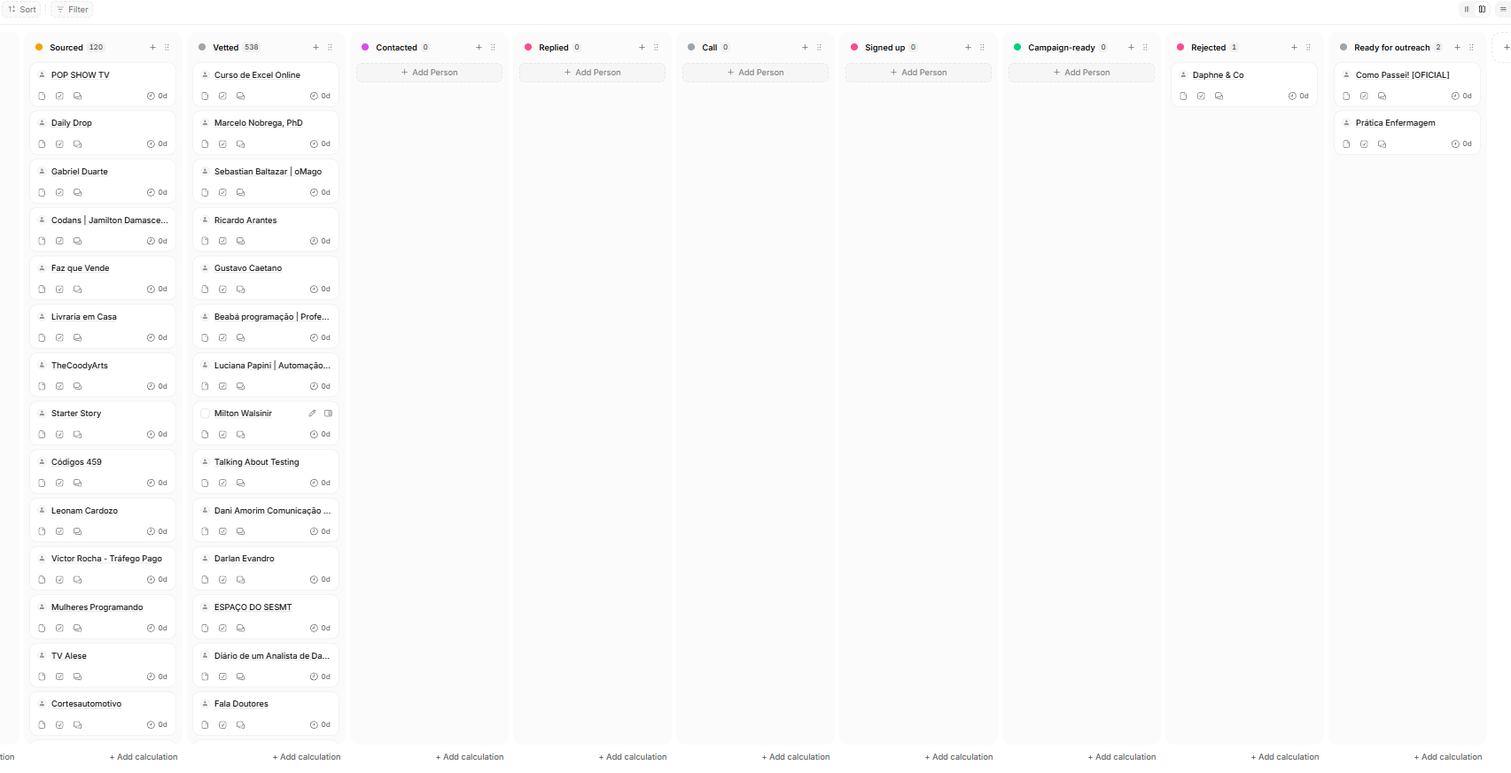
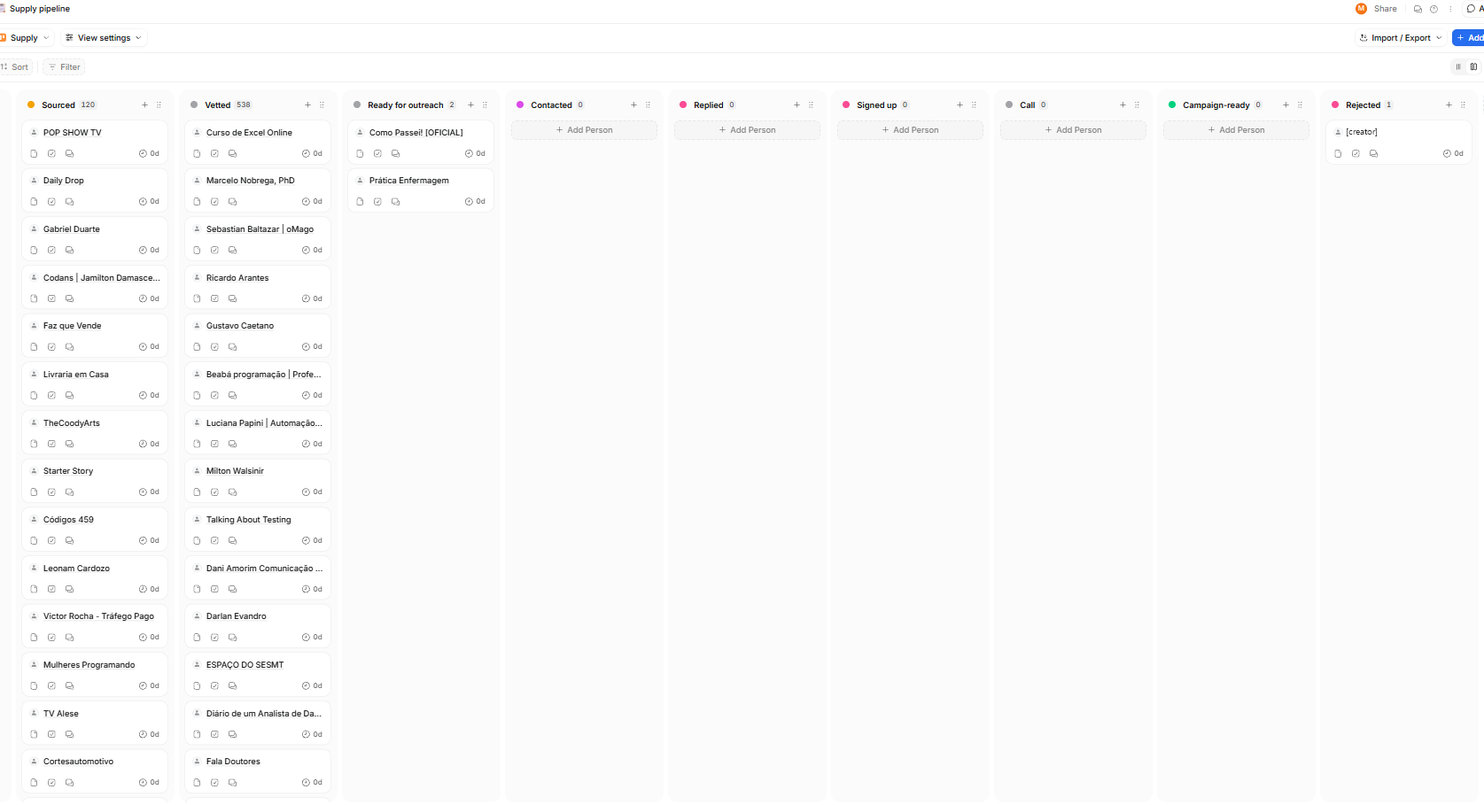
Creators case: outreach per platform, 15-minute onboarding call script
- Playbook: minute-by-minute onboarding call for the largest creators
  (signed up -> campaign-ready), three Apollo sequences, pipeline order
- In the tools: Apollo panel reads the three template sequences
- Workflow 2 picks the sequence from the creator's platform
- Attio board screenshot: new stage order, rejected creator name hidden

diff --git a/creators.html b/creators.html
@@ -543,7 +543,7 @@ footer{border-top:1px solid var(--line);padding-block:26px;display:flex;justify-
           <tr><td data-en="Build lists in Clay and Apollo, track every creator in Attio">Montar listas no Clay e Apollo e registrar tudo no Attio</td><td data-en="Automated YouTube and newsletter sourcing, LinkedIn through Clay, and 661 creators in an Attio pipeline">Sourcing automatizado no YouTube e nas newsletters, LinkedIn pela Clay e 661 creators num pipeline no Attio</td><td data-en="Done">Feito</td></tr>
           <tr><td data-en="Build automations with n8n and Claude">Automações com n8n e Claude</td><td data-en="Scripts that rerun every batch; an n8n flow from brief to shortlist, tested end to end">Scripts que rodam cada lote; fluxo n8n do brief à shortlist, testado de ponta a ponta</td><td data-en="Done">Feito</td></tr>
           <tr><td data-en="Report on supply and gaps">Reportar supply e gaps</td><td data-en="A gap map by category, live from Attio; the weekly workflow searches where it is thinnest">Um mapa de gaps por categoria, ao vivo do Attio; o workflow semanal busca onde está mais fino</td><td data-en="Done">Feito</td></tr>
-          <tr><td data-en="15-minute onboarding calls">Calls de onboarding de 15 minutos</td><td data-en="A call script and an outreach sequence, written but never sent">Roteiro de call e sequência de outreach, escritos mas nunca enviados</td><td data-en="Written">Escrito</td></tr>
+          <tr><td data-en="15-minute onboarding calls">Calls de onboarding de 15 minutos</td><td data-en="A minute-by-minute call script for the largest creators and three outreach sequences, written but never sent">Roteiro de call minuto a minuto para os maiores creators e três sequências de outreach, escritos mas nunca enviados</td><td data-en="Written">Escrito</td></tr>
         </tbody>
       </table>
     </div>
@@ -758,7 +758,7 @@ footer{border-top:1px solid var(--line);padding-block:26px;display:flex;justify-
     </div>
 
     <div class="panel" role="tabpanel" id="p-s2-out" aria-labelledby="t-s2-out" hidden>
-      <div class="panel-note"><span data-en="Workflow 2: when a creator reaches “Ready for outreach” in Attio, a webhook sends them to Apollo and the outreach sequence, then marks them Contacted. Built and imported, never activated: no mailbox is connected, so nothing can be sent.">Workflow 2: quando um creator chega em “Ready for outreach” no Attio, um webhook leva ele para o Apollo e para a sequência de outreach, e marca como Contacted. Montado e importado, nunca ativado: não há caixa de e-mail conectada, então nada pode ser enviado.</span></div>
+      <div class="panel-note"><span data-en="Workflow 2: when a creator reaches “Ready for outreach” in Attio, a webhook sends them to Apollo and the outreach sequence for their platform, then marks them Contacted. Built and imported, never activated: no mailbox is connected, so nothing can be sent.">Workflow 2: quando um creator chega em “Ready for outreach” no Attio, um webhook leva ele para o Apollo e para a sequência de outreach da plataforma dele, e marca como Contacted. Montado e importado, nunca ativado: não há caixa de e-mail conectada, então nada pode ser enviado.</span></div>
       <ol class="fc" aria-label="Stage B, workflow 2: Attio stage change, webhook, ready for outreach check, Apollo contact, sequence, contacted">
         <li class="fc-node"><b data-en="Stage changes">Estágio muda</b><small data-en="Supply pipeline list">lista Supply pipeline</small><span class="fc-tool">Attio</span></li>
         <li class="fc-edge"><span data-en="webhook event">evento de webhook</span></li>
@@ -766,7 +766,7 @@ footer{border-top:1px solid var(--line);padding-block:26px;display:flex;justify-
         <li class="fc-edge"><span data-en="yes">sim</span></li>
         <li class="fc-node"><b data-en="Create the contact">Cria o contato</b><small data-en="deduplicated; vetting fields come from Attio">sem duplicar; campos do vetting vêm do Attio</small><span class="fc-tool">Apollo</span></li>
         <li class="fc-edge"></li>
-        <li class="fc-node is-off"><b data-en="Enroll in the sequence">Entra na sequência</b><small data-en="inactive template, no mailbox: nothing is sent">modelo inativo, sem caixa de e-mail: nada é enviado</small><span class="fc-tool">Apollo</span></li>
+        <li class="fc-node is-off"><b data-en="Enroll in the sequence for their platform">Entra na sequência da plataforma dele</b><small data-en="YouTube, newsletter or LinkedIn template, inactive, no mailbox: nothing is sent">modelo do YouTube, de newsletter ou do LinkedIn, inativo, sem caixa de e-mail: nada é enviado</small><span class="fc-tool">Apollo</span></li>
         <li class="fc-edge"></li>
         <li class="fc-node"><b>Contacted</b><span class="fc-tool">Attio</span></li>
       </ol>
@@ -863,22 +863,22 @@ footer{border-top:1px solid var(--line);padding-block:26px;display:flex;justify-
     </div>
 
     <div class="panel" role="tabpanel" id="p-tl-apollo" aria-labelledby="t-tl-apollo" hidden>
-      <div class="panel-note"><span class="tag">Inactive</span><span class="tag">0 contacts</span><span class="tag">No mailbox</span><span data-en="“[TEMPLATE — do not send] Passionfroot · B2B creator recruiting”, read from the Apollo API. Written as if I worked at Passionfroot; never sent.">“[TEMPLATE — do not send] Passionfroot · B2B creator recruiting”, lido pela API do Apollo. Escrito como se eu trabalhasse na Passionfroot; nunca enviado.</span></div>
-      <ol class="fc" aria-label="Apollo sequence, 7 steps over 13 days">
-        <li class="fc-node"><b>Day 0 · View profile</b><small>View the profile and react to a recent post before connecting, so the creator sees who is reaching out.</small><span class="fc-tool">LinkedIn</span></li>
-        <li class="fc-edge"><span>+1 day</span></li><li class="fc-node"><b>Day 1 · Connection request</b><small>Hi {{first_name}}! I work on creator partnerships at Passionfroot and follow your posts about [niche]. Happy to connect?</small><span class="fc-tool">LinkedIn</span></li>
-        <li class="fc-edge"><span>+1 day</span></li><li class="fc-node"><b>Day 2 · Automatic email</b><small>Subject: {{first_name}}, B2B brands looking for [niche] creators</small><span class="fc-tool">Email</span></li>
-        <li class="fc-edge"><span>+3 days</span></li><li class="fc-node"><b>Day 5 · Automatic email</b><small>Hi {{first_name}}, following up with what usually matters most to creators at your stage: • Less back-and-forth by email: rates and formats live in yo…</small><span class="fc-tool">Email</span></li>
-        <li class="fc-edge"><span>+2 days</span></li><li class="fc-node"><b>Day 7 · Message</b><small>Hi {{first_name}}! I sent you an email about B2B brands looking for [niche] creators. Happy to sort it out here if that's easier.</small><span class="fc-tool">LinkedIn</span></li>
-        <li class="fc-edge"><span>+4 days</span></li><li class="fc-node"><b>Day 11 · Automatic email</b><small>Hi {{first_name}}, this is my last email so I don't crowd your inbox. If you ever want offers from B2B brands without the tedious part of negotiating,…</small><span class="fc-tool">Email</span></li>
-        <li class="fc-edge"><span>+2 days</span></li><li class="fc-node"><b>Day 13 · Call</b><small>Only with a public business phone or one the creator shared (LGPD, Brazil's data protection law); otherwise skip. Goal: book a 15-minute onboarding. If they accept: move to &quot;Call&quot; in Attio. No reply at any step: &quot;Rejected&quot; with reason &quot;no reply&quot;, re-approach in 90 days.</small><span class="fc-tool">Phone</span></li>
+      <div class="panel-note"><span class="tag">3 sequences</span><span class="tag">Inactive</span><span class="tag">0 contacts</span><span class="tag">No mailbox</span><span data-en="One template sequence per platform, read from the Apollo API; workflow 2 picks it from the creator’s platform in Attio. Written as if I worked at Passionfroot; never sent. Below: “[TEMPLATE — do not send] Passionfroot · YouTube creators”.">Uma sequência-modelo por plataforma, lida pela API do Apollo; o workflow 2 escolhe pela plataforma do creator no Attio. Escrito como se eu trabalhasse na Passionfroot; nunca enviado. Abaixo: “[TEMPLATE — do not send] Passionfroot · YouTube creators”.</span></div>
+      <ol class="fc" aria-label="Apollo sequence, 5 steps over 13 days">
+        <li class="fc-node"><b>Day 0 · Automatic email</b><small>Subject: [channel name] × B2B brands</small><span class="fc-tool">Email</span></li>
+        <li class="fc-edge"><span>+3 days</span></li><li class="fc-node"><b>Day 3 · Automatic email</b><small>Hi {{first_name}}, to make it concrete, I mocked up what your media kit could look like with your public numbers (attached): [formats, e.g. integratio…</small><span class="fc-tool">Email</span></li>
+        <li class="fc-edge"><span>+3 days</span></li><li class="fc-node"><b>Day 6 · DM (manual task)</b><small>Instagram DM, only if the creator lists a business Instagram on the channel. Text: &quot;Hi [first name]! Michel from Passionfroot. I emailed you about B2B brands for [channel]. Easier to talk here?&quot; One message, no follow-up DM.</small><span class="fc-tool">Instagram</span></li>
+        <li class="fc-edge"><span>+3 days</span></li><li class="fc-node"><b>Day 9 · Automatic email</b><small>Hi {{first_name}}, one example that may help: [creator from the Passionfroot gallery in the same category] and how they [result from their creator sto…</small><span class="fc-tool">Email</span></li>
+        <li class="fc-edge"><span>+4 days</span></li><li class="fc-node"><b>Day 13 · Automatic email</b><small>Hi {{first_name}}, last note from me. [Brand in your category] has an open campaign for creators like you until [date]; with a page set up, you can ap…</small><span class="fc-tool">Email</span></li>
       </ol>
-      <div class="tl-row"><b data-en="Custom contact fields, filled from Attio">Campos personalizados do contato, preenchidos pelo Attio</b><div class="tags"><span class="tag">Platform</span><span class="tag">Creator link</span><span class="tag">Passionfroot category</span><span class="tag">Estimated rate (US$)</span><span class="tag">Vetting score</span><span class="tag">Attio record ID</span></div></div>
+      <div class="tl-row"><b>Newsletter creators</b><div class="tags"><span class="tag">Day 0 · Email</span><span class="tag">Day 3 · Email</span><span class="tag">Day 6 · LinkedIn connect</span><span class="tag">Day 9 · Email</span><span class="tag">Day 13 · Email</span></div></div>
+      <div class="tl-row"><b>LinkedIn creators</b><div class="tags"><span class="tag">Day 0 · LinkedIn view</span><span class="tag">Day 1 · LinkedIn connect</span><span class="tag">Day 3 · LinkedIn message</span><span class="tag">Day 7 · LinkedIn message</span><span class="tag">Day 12 · LinkedIn message</span></div></div>
+      <div class="tl-row"><b data-en="Custom contact fields, filled from Attio">Campos personalizados do contato, preenchidos pelo Attio</b><div class="tags"><span class="tag">Creator link</span><span class="tag">Passionfroot category</span><span class="tag">Estimated rate (US$)</span><span class="tag">Platform</span><span class="tag">Attio record ID</span><span class="tag">Vetting score</span></div></div>
     </div>
 
     <div class="panel" role="tabpanel" id="p-tl-attio" aria-labelledby="t-tl-attio" hidden>
       <div class="panel-note"><span data-en="The Supply pipeline list in Attio, 661 creators: Sourced 120, Vetted 538, Ready for outreach 2, Rejected 1.">A lista Supply pipeline no Attio, 661 creators: Sourced 120, Vetted 538, Ready for outreach 2, Rejected 1.</span></div>
-      <figure class="tl-shot"><a href="creators-img/attio-pipeline.png" target="_blank" rel="noopener"><img src="creators-img/attio-pipeline.png" alt="Attio Supply pipeline board: Sourced 120, Vetted 538, Ready for outreach 2, Contacted 0, Replied 0, Call 0, Signed up 0, Campaign-ready 0, Rejected 1" loading="lazy"></a><figcaption data-en="Screenshot of the board in Attio (click to enlarge). The record, deal and task below come from the Attio API.">Print do quadro no Attio (clique para ampliar). O registro, o deal e a task abaixo vêm da API do Attio.</figcaption></figure>
+      <figure class="tl-shot"><a href="creators-img/attio-pipeline.png" target="_blank" rel="noopener"><img src="creators-img/attio-pipeline.png" alt="Attio Supply pipeline board: Sourced 120, Vetted 538, Ready for outreach 2, Contacted 0, Replied 0, Signed up 0, Call 0, Campaign-ready 0, Rejected 1" loading="lazy"></a><figcaption data-en="Screenshot of the board in Attio (click to enlarge). The record, deal and task below come from the Attio API.">Print do quadro no Attio (clique para ampliar). O registro, o deal e a task abaixo vêm da API do Attio.</figcaption></figure>
       <div class="tl-grid">
         <div class="card"><b data-en="A creator record">Um registro de creator</b><strong style="font-size:1.1rem">Arena Ambiental</strong><table class="tl-table"><tr><th>Platform</th><td>YouTube</td></tr><tr><th>Main link</th><td>https://www.youtube.com/@arenaambiental</td></tr><tr><th>Passionfroot category</th><td>Tech &amp; Business</td></tr><tr><th>Audience</th><td>74,900</td></tr><tr><th>Final score</th><td>82</td></tr><tr><th>Passionfroot fit</th><td>5</td></tr><tr><th>Verdict</th><td>Approved</td></tr><tr><th>Decided by</th><td>Jev + Claude agree</td></tr><tr><th>Rate card (US$)</th><td>500</td></tr><tr><th>Sourcing batch</th><td>w3_2026-10-23</td></tr><tr><th>Vetting rationale</th><td>Bruno Marchi runs a technical waste-management channel aimed at industry, agribusiness and business decision-makers. Recent videos are on-site interviews with companies like Grimaldi, Tecflex and Bianna Brasil at Eco Expo 2026, which show expert, sector-specif…</td></tr><tr><th>Content summary</th><td>Seja bem-vindo à Arena Ambiental! Seu canal técnico e direto sobre gestão ambiental. Aqui, com mais de 20 anos de experiência prática em gestão de resíduos no Brasil, África e Europa, eu, Bruno Marchi, trago discussões estratégicas para você sair do modo &quot;apag…</td></tr></table></div>
         <div class="tl-stack">
@@ -943,41 +943,60 @@ footer{border-top:1px solid var(--line);padding-block:26px;display:flex;justify-
     </div>
 
     <div class="panel" role="tabpanel" id="p-pb-call" aria-labelledby="t-pb-call" hidden>
-      <div class="panel-note"><span data-en="Fifteen minutes. The goal is a live profile at the end of the call, not a follow-up email.">Quinze minutos. O objetivo é sair da call com o perfil no ar, não com um e-mail de follow-up.</span></div>
+      <div class="panel-note"><span data-en="Fifteen minutes, as the role asks: sell Passionfroot and set clear expectations. Only for the largest creators, after they sign up: 100k+ YouTube subscribers, 10k+ newsletter subscribers or 30k+ LinkedIn followers, 95 of the 389 B2B creators in Attio today. The rest get the sign-up link and an async review of their page.">Quinze minutos, como a vaga pede: vender a Passionfroot e deixar as expectativas claras. Só para os maiores creators, depois do cadastro: 100 mil+ inscritos no YouTube, 10 mil+ assinantes de newsletter ou 30 mil+ seguidores no LinkedIn, 95 dos 389 creators B2B no Attio hoje. Os outros recebem o link de cadastro e uma revisão assíncrona da página.</span></div>
+      <ol class="fc" aria-label="Onboarding call, minute by minute: prepare, open, three questions, sell, set up the page, set expectations, close; campaign-ready or a follow-up task">
+        <li class="fc-node"><b data-en="Before · 5 minutes of prep">Antes · 5 minutos de preparo</b><small data-en="From Attio: why they were approved, category, score, estimated rate. Their latest two pieces, past sponsors, and the page they started when signing up.">Do Attio: por que foi aprovado, categoria, nota, preço estimado. Os dois últimos conteúdos, as publis anteriores e a página que ele começou no cadastro.</small><span class="fc-tool">Attio</span></li>
+        <li class="fc-edge"></li>
+        <li class="fc-node"><b data-en="0:00–1:00 · Open">0:00–1:00 · Abertura</b><small data-en="“The goal for these 15 minutes: your page ready for brands, and you know exactly what happens next. Can I ask three questions first?”">“O objetivo destes 15 minutos: sua página pronta para as marcas e você sabendo exatamente o que acontece depois. Posso fazer três perguntas antes?”</small><span class="fc-tool" data-en="Me">Eu</span></li>
+        <li class="fc-edge"></li>
+        <li class="fc-node"><b data-en="1:00–4:00 · Three questions">1:00–4:00 · Três perguntas</b><small data-en="Who watches you at work: roles, company size? Which sponsorships have you done, what did you charge, what went wrong? How many a month do you want, and what will you never promote?">Quem te assiste no trabalho: cargos, porte de empresa? Que publis você já fez, quanto cobrou, o que deu errado? Quantas quer por mês, e o que nunca divulgaria?</small><span class="fc-tool" data-en="Me">Eu</span></li>
+        <li class="fc-edge"></li>
+        <li class="fc-node"><b data-en="4:00–7:00 · Sell, using their answers">4:00–7:00 · Vender, com as respostas dele</b><small data-en="Two of three points, whichever matches their pain: B2B brands, foreign ones included, find and book you; brief, invoice and payment in one place; your price, set once. Then one Brazilian creator story from their category.">Dois de três argumentos, o que bater com a dor dele: marcas B2B, inclusive de fora, te acham e reservam; briefing, nota e pagamento num lugar só; seu preço, definido uma vez. Depois, uma história de creator brasileiro da categoria dele.</small><span class="fc-tool" data-en="Me">Eu</span></li>
+        <li class="fc-edge"></li>
+        <li class="fc-node"><b data-en="7:00–11:00 · Make the page campaign-ready, live">7:00–11:00 · Deixar a página pronta, ao vivo</b><small data-en="Up to three formats to start. A price per format, anchored on Passionfroot’s pricing guide and their views per subscriber. Slots per month and lead time. Categories they won’t take. Two links to past sponsored work.">Até três formatos para começar. Um preço por formato, com âncora no guia de preços da Passionfroot e nas views por inscrito. Vagas por mês e antecedência. Categorias que não aceita. Dois links de publis anteriores.</small><span class="fc-tool">Passionfroot</span></li>
+        <li class="fc-edge"></li>
+        <li class="fc-node"><b data-en="11:00–14:00 · Clear expectations">11:00–14:00 · Expectativas claras</b><small data-en="What it costs, what is not guaranteed, what I ask of them, what I do next (card below).">Quanto custa, o que não é garantido, o que eu peço a ele, o que eu faço depois (cartão abaixo).</small><span class="fc-tool" data-en="Me">Eu</span></li>
+        <li class="fc-edge"></li>
+        <li class="fc-node"><b data-en="14:00–15:00 · Close">14:00–15:00 · Fechamento</b><small data-en="Recap: page live, prices set, check-in date. Then one ask: “Who else in your niche should be on Passionfroot?”">Resumo: página no ar, preços definidos, data do check-in. Depois, um pedido: “Quem mais do seu nicho deveria estar na Passionfroot?”</small><span class="fc-tool" data-en="Me">Eu</span></li>
+        <li class="fc-edge"></li>
+        <li class="fc-node is-decision"><b data-en="Page live, a priced format, availability set?">Página no ar, um formato com preço, disponibilidade?</b><span class="fc-tool">Attio</span></li>
+        <li class="fc-split">
+          <div class="fc-out"><span class="fc-edge" data-en="yes">sim</span><div class="fc-node is-human"><b>Campaign-ready</b><small data-en="ready for the next brief in their category">pronto para o próximo brief da categoria</small><span class="fc-tool">Attio</span></div></div>
+          <div class="fc-out"><span class="fc-edge" data-en="no">não</span><div class="fc-node"><b data-en="Stays Signed up">Fica em Signed up</b><small data-en="task for me in 3 days with what is missing">task para mim em 3 dias com o que falta</small><span class="fc-tool">Attio</span></div></div>
+        </li>
+      </ol>
       <div class="cards">
-        <div class="card"><b data-en="Audience">Público</b><p data-en="Who reads or watches you: roles, seniority, company size? Is it Brazil only, or Latin America too? What do they ask you about most?">Quem lê ou assiste você: cargos, senioridade, porte de empresa? É só Brasil ou também América Latina? O que eles mais te perguntam?</p></div>
-        <div class="card"><b data-en="Sponsorships so far">Publis até aqui</b><p data-en="Which brands have you worked with, and how did they find you? What do you charge per format, and how did you set it? What made a sponsorship go badly?">Com quais marcas você já trabalhou, e como elas te acharam? Quanto cobra por formato, e como chegou nesse preço? O que fez uma publi dar errado?</p></div>
-        <div class="card"><b data-en="Fit with Passionfroot">Fit com a Passionfroot</b><p data-en="Which formats do you want to sell: integration, dedicated video, newsletter slot, LinkedIn post? How many slots a month? Any categories you won’t promote, or exclusivities? We fill in the media kit together before hanging up.">Quais formatos quer vender: integração, vídeo dedicado, espaço na newsletter, post no LinkedIn? Quantas vagas por mês? Alguma categoria que não divulga, ou exclusividade? O media kit é preenchido junto, antes de desligar.</p></div>
+        <div class="card"><b data-en="The expectations I set">As expectativas que eu deixo claras</b><p data-en="Cost: free, no fee on deals they bring, 15% on deals Passionfroot brings (public help center). Bookings are not guaranteed: they follow demand in their category. What I ask: answer brand requests within two business days, keep prices and availability current, deliver on the agreed date, label every sponsorship as an ad (#publi, per Brazil’s ad standards body, CONAR). What I do: put them forward for matching briefs and check in on day 14.">Custo: grátis, sem taxa nas publis que ele traz, 15% nas que a Passionfroot traz (central de ajuda pública). Reserva não é garantida: depende da demanda na categoria. O que eu peço: responder às marcas em até dois dias úteis, manter preços e agenda em dia, entregar na data combinada, marcar toda publi como anúncio (#publi, regra do CONAR). O que eu faço: indicar o creator para os briefs que combinam e fazer um check-in no dia 14.</p></div>
+        <div class="card"><b data-en="Objections">Objeções</b><p data-en="“What’s your cut?” Nothing on their own deals, 15% on ours. “I have a manager.” The manager can run the page. “My audience is small.” B2B brands pay for who listens, not for reach. “I only promote what I use.” They accept or decline every booking. “Foreign brands?” They pay through the platform, so there’s no chasing invoices abroad.">“Quanto vocês ficam?” Nada nas publis dele, 15% nas nossas. “Tenho empresário.” O empresário pode cuidar da página. “Meu público é pequeno.” Marca B2B paga por quem ouve, não por alcance. “Só divulgo o que uso.” Ele aceita ou recusa cada reserva. “Marca de fora?” Paga pela plataforma, sem correr atrás de invoice no exterior.</p></div>
+        <div class="card"><b data-en="After the call, in Attio">Depois da call, no Attio</b><p data-en="Stage moves to Campaign-ready, or stays Signed up with a task. The rate card gets the real price instead of the estimate. A call note: formats, prices, exclusions, monthly goal. Referrals enter as Sourced and go through the same double vetting. A check-in task for day 14.">O estágio vai para Campaign-ready, ou fica em Signed up com uma task. O rate card recebe o preço real no lugar da estimativa. Uma nota da call: formatos, preços, exclusões, meta mensal. As indicações entram como Sourced e passam pelo mesmo duplo vetting. Uma task de check-in para o dia 14.</p></div>
+        <div class="card"><b data-en="What ends a call early">O que encerra a call antes</b><p data-en="Signs of a bought audience, sponsors from betting or speculative trading, or asking for guaranteed income. Logged as Rejected, with the reason.">Sinais de público comprado, patrocínio de apostas ou trading especulativo, ou pedido de renda garantida. Registro como Rejected, com o motivo.</p></div>
       </div>
     </div>
 
     <div class="panel" role="tabpanel" id="p-pb-out" aria-labelledby="t-pb-out" hidden>
-      <div class="panel-note"><span data-en="Written as if I worked at Passionfroot. It lives in Apollo as an inactive template with no contacts and no mailbox: it was never sent. Live, it would go out in Portuguese.">Escrito como se eu trabalhasse na Passionfroot. Fica no Apollo como modelo inativo, sem contatos e sem caixa de e-mail: nunca foi enviado. Ao vivo, iria em português.</span></div>
-      <ol class="fc" aria-label="Outreach sequence: day 0 view profile, day 1 connect, day 2 email, day 5 follow-up, day 7 LinkedIn message, day 11 last email, day 13 call; a reply ends the sequence">
-        <li class="fc-node"><b data-en="Day 0 · view the profile, react to a post">Dia 0 · ver o perfil, reagir a um post</b><span class="fc-tool">LinkedIn</span></li>
-        <li class="fc-edge"><span data-en="+1 day">+1 dia</span></li>
-        <li class="fc-node"><b data-en="Day 1 · connection request, no pitch">Dia 1 · pedido de conexão, sem pitch</b><span class="fc-tool">LinkedIn</span></li>
-        <li class="fc-edge"><span data-en="+1 day">+1 dia</span></li>
-        <li class="fc-node"><b data-en="Day 2 · email: brands want their niche">Dia 2 · e-mail: marcas querem o nicho dele</b><small data-en="how the media kit, booking and payment work">como funcionam media kit, reserva e pagamento</small><span class="fc-tool" data-en="Email">E-mail</span></li>
+      <div class="panel-note"><span data-en="Three template sequences in Apollo, one per platform; workflow 2 picks the right one from Attio. Below, YouTube, where 350 of the 389 B2B creators are. Written as if I worked at Passionfroot; inactive, no contacts, no mailbox: never sent. Live, they would go out in Portuguese.">Três sequências-modelo no Apollo, uma por plataforma; o workflow 2 escolhe a certa pelo Attio. Abaixo, a do YouTube, onde estão 350 dos 389 creators B2B. Escritas como se eu trabalhasse na Passionfroot; inativas, sem contatos e sem caixa de e-mail: nunca enviadas. Ao vivo, iriam em português.</span></div>
+      <ol class="fc" aria-label="YouTube outreach sequence: day 0 email with an estimated price, day 3 media kit mock-up, day 6 Instagram DM, day 9 creator story, day 13 open campaign; a reply or sign-up ends the sequence">
+        <li class="fc-node"><b data-en="Day 0 · email: why them">Dia 0 · e-mail: por que ele</b><small data-en="a detail from their latest video, who their audience is, an estimated price from Passionfroot’s pricing guide, and two ways in: sign-up link or a 15-minute call">um detalhe do último vídeo, quem é o público, um preço estimado pelo guia de preços da Passionfroot e duas entradas: link de cadastro ou call de 15 minutos</small><span class="fc-tool" data-en="Email">E-mail</span></li>
         <li class="fc-edge"><span data-en="+3 days">+3 dias</span></li>
-        <li class="fc-node"><b data-en="Day 5 · follow-up">Dia 5 · follow-up</b><small data-en="three benefits, offer to draft the profile">três benefícios, oferta de rascunhar o perfil</small><span class="fc-tool" data-en="Email">E-mail</span></li>
-        <li class="fc-edge"><span data-en="+2 days · only if connected">+2 dias · só se conectou</span></li>
-        <li class="fc-node"><b data-en="Day 7 · LinkedIn message">Dia 7 · mensagem no LinkedIn</b><span class="fc-tool">LinkedIn</span></li>
+        <li class="fc-node"><b data-en="Day 3 · email: their media kit, mocked up">Dia 3 · e-mail: o media kit dele, rascunhado</b><small data-en="public numbers, formats and a starting price: they only check and publish">números públicos, formatos e preço inicial: ele só confere e publica</small><span class="fc-tool" data-en="Email">E-mail</span></li>
+        <li class="fc-edge"><span data-en="+3 days · business Instagram only">+3 dias · só Instagram comercial</span></li>
+        <li class="fc-node"><b data-en="Day 6 · Instagram DM">Dia 6 · DM no Instagram</b><small data-en="manual task, one message">tarefa manual, uma mensagem</small><span class="fc-tool">Instagram</span></li>
+        <li class="fc-edge"><span data-en="+3 days">+3 dias</span></li>
+        <li class="fc-node"><b data-en="Day 9 · email: a creator story">Dia 9 · e-mail: uma história de creator</b><small data-en="a creator from the Passionfroot gallery in the same category">um creator da galeria da Passionfroot na mesma categoria</small><span class="fc-tool" data-en="Email">E-mail</span></li>
         <li class="fc-edge"><span data-en="+4 days">+4 dias</span></li>
-        <li class="fc-node"><b data-en="Day 11 · last email">Dia 11 · último e-mail</b><span class="fc-tool" data-en="Email">E-mail</span></li>
-        <li class="fc-edge"><span data-en="+2 days · public business phone only (LGPD)">+2 dias · só telefone comercial público (LGPD)</span></li>
-        <li class="fc-node"><b data-en="Day 13 · call">Dia 13 · call</b><span class="fc-tool" data-en="Phone">Telefone</span></li>
+        <li class="fc-node"><b data-en="Day 13 · email: an open campaign">Dia 13 · e-mail: uma campanha aberta</b><small data-en="a brand in their category, with a deadline; then a pause of a few months">uma marca da categoria dele, com prazo; depois, pausa de alguns meses</small><span class="fc-tool" data-en="Email">E-mail</span></li>
         <li class="fc-edge"></li>
-        <li class="fc-node is-decision"><b data-en="A reply at any step?">Resposta em algum passo?</b><small data-en="a reply ends the sequence on its own">a resposta encerra a sequência sozinha</small><span class="fc-tool">Apollo</span></li>
+        <li class="fc-node is-decision"><b data-en="A reply or a sign-up at any step?">Resposta ou cadastro em algum passo?</b><small data-en="either ends the sequence on its own">qualquer um encerra a sequência sozinho</small><span class="fc-tool">Apollo</span></li>
         <li class="fc-split">
-          <div class="fc-out"><span class="fc-edge" data-en="yes">sim</span><div class="fc-node is-human"><b data-en="Book the onboarding call">Marcar a call de onboarding</b><small>Replied → Call</small><span class="fc-tool">Attio</span></div></div>
-          <div class="fc-out"><span class="fc-edge" data-en="no">não</span><div class="fc-node"><b data-en="Rejected: no reply">Rejected: sem resposta</b><small data-en="back in the queue after 90 days">volta para a fila depois de 90 dias</small><span class="fc-tool">Attio</span></div></div>
+          <div class="fc-out"><span class="fc-edge" data-en="yes">sim</span><div class="fc-node is-human"><b data-en="Signed up · the largest get the call">Signed up · os maiores ganham a call</b><small>Replied → Signed up</small><span class="fc-tool">Attio</span></div></div>
+          <div class="fc-out"><span class="fc-edge" data-en="no">não</span><div class="fc-node"><b data-en="Rejected: no reply">Rejected: sem resposta</b><small data-en="back in the queue after 90 days, with a new hook">volta para a fila depois de 90 dias, com um gancho novo</small><span class="fc-tool">Attio</span></div></div>
         </li>
       </ol>
       <div class="cards">
-        <div class="card"><b data-en="Personalization">Personalização</b><p data-en="The first line comes from Clay (the creator’s latest post and niche) and the pitch from Attio (their category and the brands buying it). No two emails open the same way.">A primeira linha vem da Clay (o post mais recente e o nicho do creator) e o argumento vem do Attio (a categoria dele e as marcas que compram ela). Nenhum e-mail começa igual.</p></div>
-        <div class="card"><b data-en="Why the call is last">Por que a call é o último passo</b><p data-en="A reply ends the sequence and the creator moves to “Call” in Attio. The call step is the last try, and only with a phone the creator made public or shared (LGPD).">Uma resposta encerra a sequência e o creator vai para “Call” no Attio. O passo de call é a última tentativa, e só com telefone que o creator deixou público ou passou (LGPD).</p></div>
-        <div class="card"><b data-en="No WhatsApp step">Sem passo de WhatsApp</b><p data-en="Apollo has none, and in Brazil it’s where creators answer. I would add it through n8n and the WhatsApp Business API, only after the creator opts in.">O Apollo não tem, e no Brasil é onde os creators respondem. Eu acrescentaria pelo n8n e pela API do WhatsApp Business, só depois do opt-in do creator.</p></div>
+        <div class="card"><b data-en="Every touch adds something">Cada passo traz algo novo</b><p data-en="A price, then a mock-up, then proof, then a live campaign. No follow-up repeats the first email, and none just asks for news.">Um preço, depois um rascunho, depois uma prova, depois uma campanha aberta. Nenhum follow-up repete o primeiro e-mail, e nenhum só pergunta “e aí?”.</p></div>
+        <div class="card"><b data-en="One sequence per platform">Uma sequência por plataforma</b><p data-en="YouTube and newsletters start by email, at the business contact they publish. LinkedIn starts with a connection request and no pitch, then three messages. Personal details from Attio fill the brackets: their latest content, audience, category and estimated price.">YouTube e newsletters começam por e-mail, no contato comercial que o creator publica. LinkedIn começa com pedido de conexão sem pitch, depois três mensagens. Os dados do Attio preenchem os colchetes: último conteúdo, público, categoria e preço estimado.</p></div>
+        <div class="card"><b data-en="No cold calls, no WhatsApp yet">Sem ligação fria, sem WhatsApp por enquanto</b><p data-en="Cold calls don’t fit Brazil or the LGPD, so the phone step is gone. WhatsApp is where Brazilian creators answer; I would add it through n8n and the WhatsApp Business API, only after the creator opts in.">Ligação fria não combina com o Brasil nem com a LGPD, então o passo de telefone saiu. O WhatsApp é onde os creators brasileiros respondem; eu acrescentaria pelo n8n e pela API do WhatsApp Business, só depois do opt-in.</p></div>
+        <div class="card"><b data-en="What I’d measure">O que eu mediria</b><p data-en="Reply and sign-up rate by platform and category, which touch got the reply, and days from first email to campaign-ready.">Taxa de resposta e de cadastro por plataforma e categoria, qual passo trouxe a resposta e dias do primeiro e-mail até campaign-ready.</p></div>
       </div>
     </div>
 
@@ -989,22 +1008,22 @@ footer{border-top:1px solid var(--line);padding-block:26px;display:flex;justify-
         <li class="fc-node"><b>Vetted</b><span class="fc-tool">538</span></li>
         <li class="fc-edge"><span data-en="a contact route (Clay enrich on a paid plan)">um caminho de contato (enrich da Clay num plano pago)</span></li>
         <li class="fc-node"><b>Ready for outreach</b><span class="fc-tool">2</span></li>
-        <li class="fc-edge"><span data-en="sequence starts">a sequência começa</span></li>
+        <li class="fc-edge"><span data-en="the sequence for their platform starts">a sequência da plataforma dele começa</span></li>
         <li class="fc-node"><b>Contacted</b></li>
         <li class="fc-edge"><span data-en="they answer">a pessoa responde</span></li>
         <li class="fc-node"><b>Replied</b></li>
-        <li class="fc-edge"><span data-en="booked">marcou</span></li>
-        <li class="fc-node is-human"><b>Call</b><small data-en="15-minute onboarding">onboarding de 15 minutos</small><span class="fc-tool" data-en="Me">Eu</span></li>
-        <li class="fc-edge"><span data-en="profile live">perfil no ar</span></li>
+        <li class="fc-edge"><span data-en="sign-up link">link de cadastro</span></li>
         <li class="fc-node"><b>Signed up</b></li>
-        <li class="fc-edge"><span data-en="media kit and rates set">media kit e preços definidos</span></li>
+        <li class="fc-edge"><span data-en="largest creators; the rest get an async review">os maiores creators; os outros, revisão assíncrona</span></li>
+        <li class="fc-node is-human"><b>Call</b><small data-en="15-minute onboarding">onboarding de 15 minutos</small><span class="fc-tool" data-en="Me">Eu</span></li>
+        <li class="fc-edge"><span data-en="page live, prices and availability set">página no ar, preços e agenda definidos</span></li>
         <li class="fc-node"><b>Campaign-ready</b></li>
         <li class="fc-edge"></li>
         <li class="fc-node is-off"><b data-en="Rejected · from any stage, always with a reason">Rejected · de qualquer estágio, sempre com motivo</b><span class="fc-tool">1</span></li>
       </ol>
       <div class="cards">
-        <div class="card"><b data-en="What I’d report weekly">O que eu reportaria toda semana</b><p data-en="Found → vetted → contacted → replied → signed up, by niche and platform, next to how many briefs each niche received.">Encontrados → aprovados → contatados → responderam → cadastrados, por nicho e plataforma, ao lado de quantos briefs cada nicho recebeu.</p></div>
-        <div class="card"><b data-en="Where I’d source next">Onde eu buscaria a seguir</b><p data-en="Wherever the gap map is thinnest, which is what the weekly workflow does on its own. Today that is health (17 approved creators), against 167 in tech and business.">Onde o mapa de gaps está mais fino, que é o que o workflow semanal faz sozinho. Hoje é saúde (17 creators aprovados), contra 167 em tech e negócios.</p></div>
+        <div class="card"><b data-en="What I’d report weekly">O que eu reportaria toda semana</b><p data-en="Found → vetted → contacted → replied → signed up → campaign-ready, by niche and platform, next to how many briefs each niche received.">Encontrados → aprovados → contatados → responderam → cadastrados → prontos para campanha, por nicho e plataforma, ao lado de quantos briefs cada nicho recebeu.</p></div>
+        <div class="card"><b data-en="Where I’d source next">Onde eu buscaria a seguir</b><p data-en="Wherever the gap map is thinnest, which is what the weekly workflow does on its own. Today that is health (17 approved creators), against 167 in tech and business. Referrals from onboarding calls come in on top.">Onde o mapa de gaps está mais fino, que é o que o workflow semanal faz sozinho. Hoje é saúde (17 creators aprovados), contra 167 em tech e negócios. As indicações das calls de onboarding entram por cima.</p></div>
         <div class="card"><b data-en="When to try again">Quando tentar de novo</b><p data-en="No reply: back in the queue after 90 days, with a new hook. Rejected for fit: never, unless their content changes.">Sem resposta: volta para a fila depois de 90 dias, com um gancho novo. Reprovado por fit: nunca, a não ser que o conteúdo mude.</p></div>
       </div>
     </div>
@@ -1018,7 +1037,7 @@ footer{border-top:1px solid var(--line);padding-block:26px;display:flex;justify-
     </div>
     <ul class="checks">
       <li data-en="The ElevenLabs campaign is hypothetical. This is an independent project, not affiliated with Passionfroot or ElevenLabs.">A campanha da ElevenLabs é hipotética. Este é um projeto independente, sem vínculo com a Passionfroot ou a ElevenLabs.</li>
-      <li data-en="No creator was contacted. The outreach sequence is an unsent template, written as if I worked at Passionfroot to show how I would do the job.">Nenhum creator foi contatado. A sequência de outreach é um modelo nunca enviado, escrito como se eu trabalhasse na Passionfroot para mostrar como eu faria o trabalho.</li>
+      <li data-en="No creator was contacted. The outreach sequences and the call script are unsent templates, written as if I worked at Passionfroot to show how I would do the job.">Nenhum creator foi contatado. As sequências de outreach e o roteiro de call são modelos nunca usados, escritos como se eu trabalhasse na Passionfroot para mostrar como eu faria o trabalho.</li>
       <li data-en="Only public channel data was used. Emails and phone numbers stay out of this page (Brazil’s LGPD).">Só foram usados dados públicos dos canais. E-mails e telefones ficam fora desta página (LGPD).</li>
       <li data-en="Prices are estimates based on Passionfroot’s pricing guide, not quotes from the creators.">Os preços são estimativas com base no guia de preços da Passionfroot, não cotações dos creators.</li>
     </ul>
